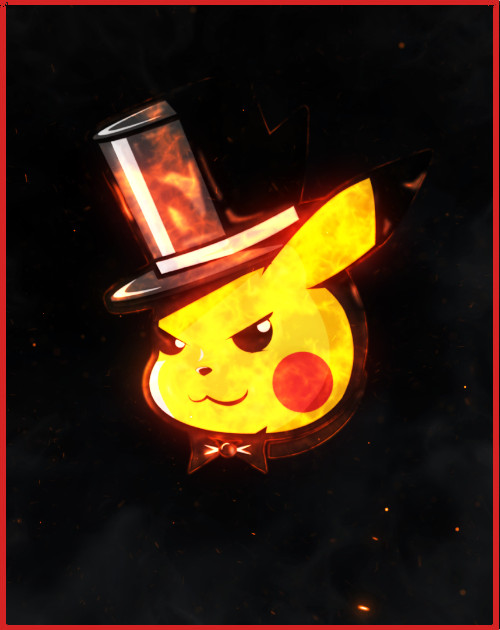
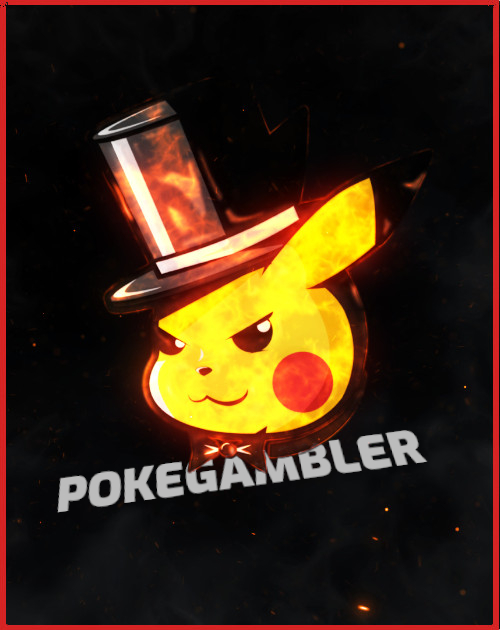
Watermarked Assets

Changed region(s): [[0.09, 0.6635, 0.87, 0.8143]]

diff --git a/scripts/base/cardgen.py b/scripts/base/cardgen.py
@@ -25,6 +25,9 @@ class CardGambler:
         self.joker_card = Image.open(
             os.path.join(self.basecards_path, "pokecards-joker.jpg")
         )
+        self.watermark = Image.open(
+            os.path.join(self.basecards_path, "pokecards-watermark.png")
+        )
 
     def get_card(self, suit: str, card: str):
         """
@@ -32,9 +35,10 @@ class CardGambler:
         """
         if ".jpg" not in card:
             card = f"{card.upper()}.jpg"
-        return Image.open(
+        facecard = Image.open(
             os.path.join(self.pokecards_path, suit, card)
-        )
+        ).convert('RGBA')
+        return Image.alpha_composite(facecard, self.watermark).convert('RGB')
 
     def get_random_cards(self, num_cards=4, joker_chance=0.05):
         """
@@ -55,9 +59,7 @@ class CardGambler:
                 card_img = self.joker_card.copy()
                 joker_drawn = True
             else:
-                card_img = Image.open(
-                    os.path.join(self.pokecards_path, suit, card)
-                )
+                card_img = self.get_card(suit, card)
             cards.append({
                 "card_num": card_num,
                 "suit": suit,
